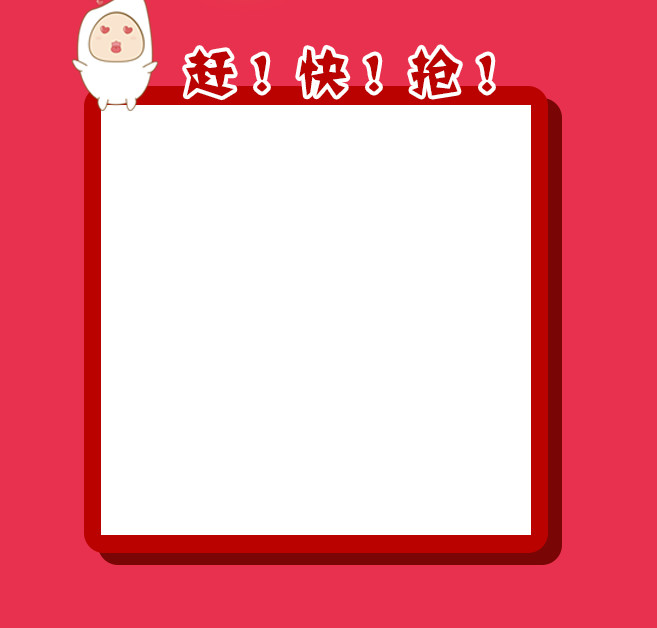
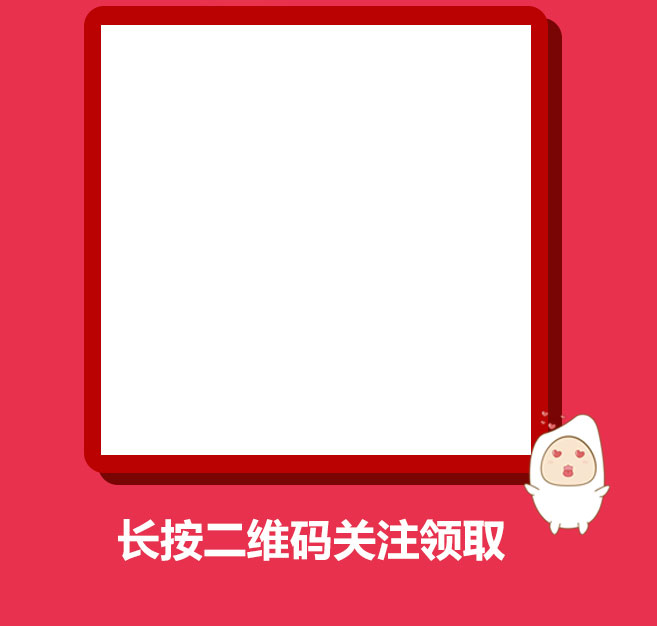
update | 样式调整

Changed region(s): [[0.1218, 0.6374, 0.9437, 0.9105], [0.0913, 0.0, 0.8524, 0.1821]]

diff --git a/www/m/web/static/css/red-packet.css b/www/m/web/static/css/red-packet.css
@@ -22,7 +22,7 @@ img{border:none;}
 
 .fx_box img,.top_banner img{width:100%;}
 .fx_box{margin-top:-5px; display:block; overflow:hidden; position:relative}
-.erweima{left:18%;position: absolute;top: 20%;width: 60%;z-index: 20;}
+.erweima{left:18%;position: absolute;top: 7%;width: 60%;z-index: 20;}
 
 
 #tab{width:100%; position:relative;}
@@ -86,7 +86,7 @@ width: 35%; cursor:pointer; font-size:14px;}
 	.tab_box div p,.tab_box div a,.tab_box div ul,.tab_box div dl{font-size:14px;}
 	.ta_l span{ display:block; width:10px; height:10px;  border-radius:10px; background:#ba0201; position:absolute; right:-3px; top:14px;}
 .ta_r span{ display:block; width:10px; height:10px;  border-radius:10px; background:#ba0201; position:absolute; left:-3px; top:14px;}
-.bott{border: medium none; border-radius: 4px;color: #666;font-size: 14px;padding: 4.1% 0;position: absolute;right:-5px;  top:12%;
+.bott{border: medium none; border-radius: 4px;color: #666;font-size: 14px;padding: 4.1% 0;position: absolute;right:0px;  top:12%;
 width:40%; cursor:pointer; font-size:12px;}
 	
 }

diff --git a/www/m/views/red-packet/vlogin.php b/www/m/views/red-packet/vlogin.php
@@ -39,7 +39,7 @@ $this->title = '米多多百万现金红包大派送！';
      </div>
      <?= Html::submitButton('立即领取', ['class' => 'botton_l', 'name' => 'login-button']) ?>
    <?php ActiveForm::end(); ?>
-     <div class="ts">分享好友，每注册成功一个，则返现<b><?=$inviter_value?></b>元，多返多送！</div>
+     <div class="ts">分享好友，每注册成功一个，则返现<b><?=$inviter_value?></b>元，多邀多送！</div>
   </div>
 </div>
 <div class="bot_box"><img src="<?=Yii::$app->params['baseurl.static.m']?>/static/img/red-packet/bot_img.jpg"></div>
@@ -52,8 +52,8 @@ $this->title = '米多多百万现金红包大派送！';
     <div>
       <p>1、活动时间：即日起至2015年12月30日</p>
       <p>2、注册用户可得1元</p>
-      <p>3、邀请好友注册可得2元</p>
-      <p>4、满10元以即可微信提现！</p>
+      <p>3、邀请好友注册，邀请人可得2元</p>
+      <p>4、满10元以上即可微信提现！</p>
     </div>
    </div>
 </div>
